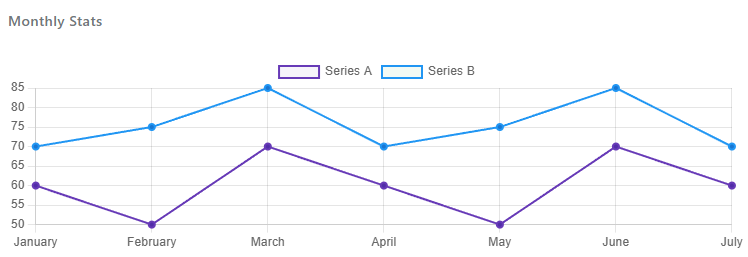
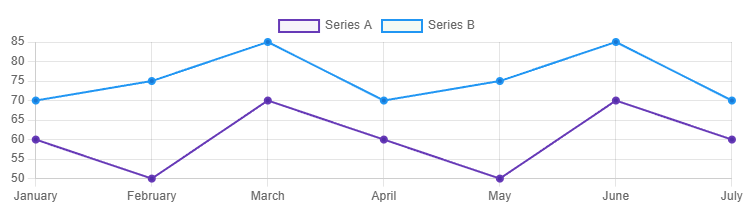
update section

diff --git a/index.html b/index.html
@@ -146,7 +146,7 @@
                                 <a>Jayyyyy__2101 </a>
                             </div>
                         </div>
-                        <div class="W-1 p-10 ">
+                        <div class="W-1 p-10">
                             <div class="d-flex">
                                 <div class="w-4 p-10 w-sm-1">
                                     <div class="part3 p-20">
@@ -186,14 +186,14 @@
 
 
                         <div class="d-flex p-20">
-                            <div class="newpart1">
+                            <div class="newpart1 w-lg-1 w-md-1">
                                 <div class="maps">
                                     <p class="site">Site visits</p>
                                     <iframe class="mapss" src="https://www.google.com/maps/embed?pb=!1m14!1m12!1m3!1d59195920.07640446!2d72.50175692959965!3d25.100770263834956!2m3!1f0!2f0!3f0!3m2!1i1024!2i768!4f13.1!5e0!3m2!1sen!2sin!4v1735364661505!5m2!1sen!2sin"   style="border:0;" allowfullscreen="" loading="lazy" referrerpolicy="no-referrer-when-downgrade"></iframe>
                                 </div>
                             </div>
 
-                            <div class="newpart2 p-20">
+                            <div class="newpart2 p-20 w-lg-1 w-md-1">
                                 <div class="text5">
                                     <p class="k">100k</p>
                                     <div class="double"><p class="visit">Visitors From USA </p><p>50%</p></div>
@@ -238,7 +238,7 @@
                                     </div>
                                     <div class="text7">
                                         <div class="d-flex">
-                                            <div class="threeparty">75 %</div>
+                                            <div class="threeparty">90 %</div>
                                         </div>
                                         <p class="new"> Bounce Rate</p>
                                     </div>
@@ -249,26 +249,81 @@
                            
                            
                         </div>
-                        <div class="d-flex2 border p-20">
-                            <div class="w-2 border">
+                        <div class="d-flex2">
+                            <div class="w-2 p-20 w-md-2 w-sm-1">
                                 <div class="text8">
+                                  <p class="monthly"> Monthly Stats</p>
                                     <img src="img/graph.png" alt="">
                                 </div>
-                                <div class="text9">10% <i class="ri-corner-right-up-fill"></i> &nbsp;&nbsp; APPL &nbsp;&nbsp;
-                                    2% <i class="ri-corner-right-down-fill"></i>  &nbsp;&nbsp; Average  &nbsp;&nbsp;
-                                    15% <i class="ri-corner-right-up-fill"></i>  &nbsp;&nbsp;  Sales  &nbsp;&nbsp;
-                                    8% <i class="ri-corner-right-down-fill"></i>  Profit</div>
+                                <div class="text9">
+                                    <p class="line1">10% </p><i class="ri-corner-right-up-fill"></i> &nbsp;&nbsp; &nbsp;&nbsp; <p class="apply">APPL</p> &nbsp;&nbsp; &nbsp;&nbsp;
+                                    <p class="line1">2% </p>  <i class="ri-corner-right-down-fill"></i>  &nbsp;&nbsp; &nbsp;&nbsp;<p class="apply">Average</p>  &nbsp;&nbsp; &nbsp;&nbsp;
+                                    <p class="line1">15%</p>  <i class="ri-corner-right-up-fill"></i>  &nbsp;&nbsp; &nbsp;&nbsp; <p class="apply">Sales</p>  &nbsp;&nbsp;  &nbsp;&nbsp;
+                                    <p class="line1">8% </p>  <i class="ri-corner-right-down-fill"></i> <p class="apply">Profit</p> 
+                                </div>
                             </div>
-                            <div class="w-2 border"></div>
+                            <div class="w-2 p-20 w-md-2 w-sm-1">
+                                <div class="text10">
+                                    Todo List
+                                </div>
+                                <div class="text11">
+                                    <div class="row">
+                                        <input  type="radio">&nbsp;&nbsp;<p class="john">
+                                            Call John for Dinner</p></input>
+                                    </div>
+                                   <div class="d-flex3">
+                                    <div class="row1">
+                                        <input  type="radio">&nbsp;&nbsp;<p class="john">
+                                            Book Boss Flight</p></input>
+                                    </div>
+                                    <div class="days">2 Days</div>
+                                   </div>
+                                   <div class="d-flex3">
+                                    <div class="row1">
+                                        <input  type="radio">&nbsp;&nbsp;<p class="john">
+                                            Hit the Gym</p></input>
+                                    </div>
+                                    <div class="minuts">3 Minutes</div>
+                                   </div>
+                                   <div class="d-flex3">
+                                    <div class="row1">
+                                        <input  type="radio">&nbsp;&nbsp;<p class="john">
+                                           Give Purchase Report</p></input>
+                                    </div>
+                                    <div class="important">not important</div>
+                                   </div>
+                                   <div class="d-flex3">
+                                    <div class="row1">
+                                        <input  type="radio">&nbsp;&nbsp;<p class="john">
+                                            Watch Game of Thrones Episode</p></input>
+                                    </div>
+                                    <div class="tomorrow">Tomorrow</div>
+                                   </div>
+                                   <div class="d-flex3">
+                                    <div class="row1">
+                                        <input  type="radio">&nbsp;&nbsp;<p class="john">
+                                           Give Purchase report</p></input>
+                                    </div>
+                                    <div class="days">Done</div>
+                                   </div>
+                                    
+                                   
+                                </div>
+                            </div>
+                           </div>
+                           <div class="d-flex2">
+                            <div class="w-2">
+                                <div class="text12">
+                                    <div class="monthly">Weather</div>
+                                    <div class="line2">32
+                                        <sup>°F</sup>
+                                    </div>
+                                </div>
+                            </div>
                            </div>
                 </div>
-
-               
             </div>
-            
-         
         </div>
-       
     </div>
    
     

diff --git a/index.css b/index.css
@@ -6,6 +6,9 @@
    color: #72777a;
    font-family: Roboto, -apple-system, system-ui, -apple-system, Segoe UI, Roboto, Ubuntu, Cantarell, Noto Sans, sans-serif, BlinkMacSystemFont, "Segoe UI", "Helvetica Neue", Arial, sans-serif;
 }
+.bg-gray{
+    background-color: gainsboro;
+}
 .container{
     max-width: 1320px;
     margin: auto;
@@ -33,6 +36,7 @@
 }
 .d-flex2{
     display: flex;
+    flex-wrap: wrap;
 }
 .border{
     border: 1px solid red;
@@ -122,7 +126,10 @@
     border: 1px solid gainsboro;
     width: 300px;
     transition: all 0.5s;
-    height: 100vh;
+    height: 200vh;
+}
+.main{
+    /* border: 1px solid black; */
 }
 .header{
     width: 100%;
@@ -330,10 +337,6 @@
     border: 3px solid #eaeef3;
     width: 50%;
     border-radius: 10px;
-    -webkit-border-radius: 10px;
-    -moz-border-radius: 10px;
-    -ms-border-radius: 10px;
-    -o-border-radius: 10px;
 }
 .newpart2{
     border: 1px solid gainsboro;
@@ -426,15 +429,19 @@
     padding-top: 5px;
 }
 .text8{
-    border: 1px solid green;
+    border: 1px solid gainsboro;
 }
 .text8 img{
     width: 100%;
-    height: 300px;
+    height: 250px;
 }
 .text9{
-    border: 1px solid black;
-    text-align: center;
+    border: 1px solid gainsboro;
+    border-top: none;
+    display: flex;
+    align-items: center;
+    justify-content: center;
+    padding: 15px;
 }
 .ri-corner-right-up-fill{
     color: #4caf50;
@@ -443,4 +450,86 @@
 .ri-corner-right-down-fill{
     color: red;
     font-size: 18px;
+}
+.apply{
+   font-size: 12px;
+   font-weight: 500;
+   color: rgba(156, 155, 155, 0.808);
+}
+.line1{
+    font-size: 18px;
+    font-weight: 500;
+    color: rgb(87, 85, 85);
+}
+.text10{
+    border: 1px solid gainsboro;
+    border-bottom: none;
+    padding: 20px;
+    font-size: 16px;
+    font-weight: 500;
+}
+.monthly{
+    padding: 20px 0px 0px 20px;
+    font-size: 16px;
+    font-weight: 500;
+}
+.text11{
+    border: 1px solid gainsboro;
+    border-top: none;
+    padding-left: 35px;
+}
+.row{
+    display: flex;
+    /* border: 1px solid green; */
+    padding: 10px 0px 10px 0px;
+}
+.row1{
+    display: flex;
+    /* border: 1px solid green; */
+    padding: 10px 0px 10px 0px;
+}
+.john{
+    font-size: 14px;
+    color: black;
+}
+.days{
+   background-color: rgb(24, 153, 24);
+   font-size: 13px;
+   color: white;
+   border-radius: 20px;
+   padding: 3px 8px 3px 8px;
+}
+.minuts{
+    background-color: red;
+    font-size: 13px;
+    color: white;
+    border-radius: 20px;
+    padding: 3px 8px 3px 8px;
+}
+.important{
+    background-color: rgba(255, 255, 0, 0.815);
+    font-size: 13px;
+    color: rgb(177, 172, 172);
+    border-radius: 20px;
+    padding: 3px 8px 3px 8px;
+}
+.tomorrow{
+    background-color: rgb(56, 182, 231);
+    font-size: 13px;
+    color:white;
+    border-radius: 20px;
+    padding: 3px 8px 3px 8px;
+}
+.d-flex3{
+    display: flex;
+    flex-wrap: wrap;
+    justify-content: space-between;
+    align-items: center;
+    padding-right: 30px;
+}
+.text12{
+    border: 1px solid red;
+}
+.line2{
+    
 }
